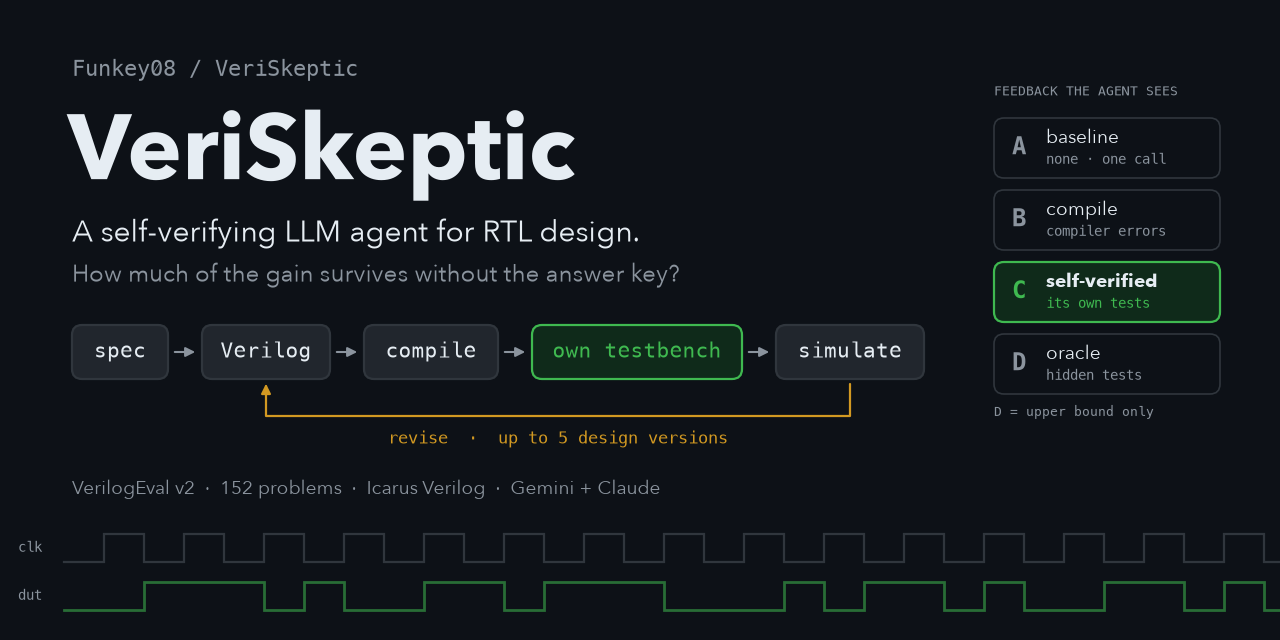
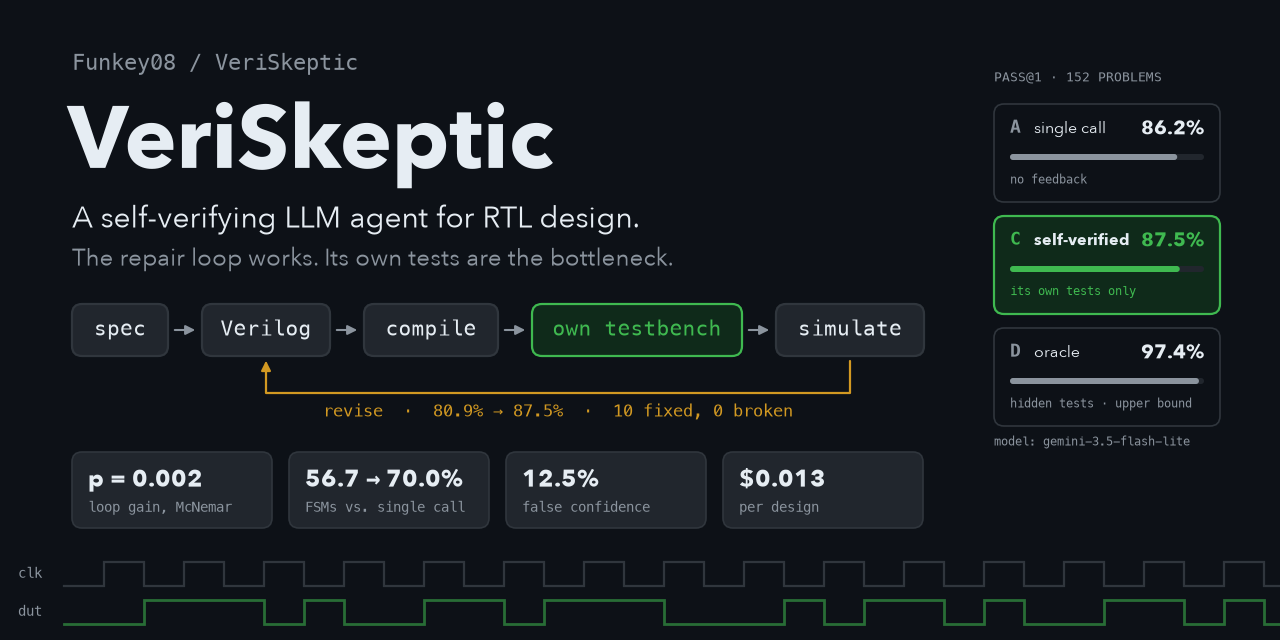
docs(assets): update social-preview card with benchmark results

diff --git a/assets/make_card.py b/assets/make_card.py
@@ -1,4 +1,4 @@
-"""Render a 1280x640 GitHub social-preview card for VeriSkeptic."""
+"""Render a 1280x640 GitHub social-preview card for VeriSkeptic, with the headline results."""
 import sys
 
 import matplotlib
@@ -30,11 +30,12 @@ fig.patch.set_facecolor(BG)
 
 
 def text(x, y, s, size, color=FG, font=SANS, weight="normal", **kw):
-    ax.text(x, y, s, fontsize=size * PX, color=color, family=font, weight=weight, va="center", **kw)
+    ax.text(x, y, s, fontsize=size * PX, color=color, family=[font, MONO],  # Menlo supplies missing glyphs (→)
+            weight=weight, va="center", **kw)
 
 
 # --- decorative waveform along the bottom -------------------------------------------------
-def wave(y, bits, color, amp=14, x0=0, step=40, lw=2.0, alpha=1.0):
+def wave(y, bits, color, amp=12, x0=0, step=40, lw=2.0, alpha=1.0):
     xs, ys = [], []
     for i, b in enumerate(bits):
         lvl = y - amp if b else y + amp
@@ -44,22 +45,22 @@ def wave(y, bits, color, amp=14, x0=0, step=40, lw=2.0, alpha=1.0):
 
 
 n = W // 40 + 1
-wave(548, [i % 2 for i in range(n)], LINE, lw=1.6, x0=64)
+wave(574, [i % 2 for i in range(n)], LINE, lw=1.6, x0=64)
 data = [0, 0, 1, 1, 1, 0, 1, 0, 0, 1, 1, 0, 1, 1, 1, 0, 0, 0, 1, 0, 1, 1, 0, 1, 0, 0, 1, 1, 0, 1, 0, 1, 1]
-wave(596, data[:n], ACCENT, lw=2.0, alpha=0.55, x0=64)
-text(18, 548, "clk", 14, MUTED, MONO)
-text(18, 596, "dut", 14, MUTED, MONO)
+wave(612, data[:n], ACCENT, lw=2.0, alpha=0.55, x0=64)
+text(18, 574, "clk", 14, MUTED, MONO)
+text(18, 612, "dut", 14, MUTED, MONO)
 
 # --- header ------------------------------------------------------------------------------
-text(72, 70, "Funkey08 / VeriSkeptic", 22, MUTED, MONO)
-text(68, 150, "VeriSkeptic", 92, FG, SANS, weight="bold")
-text(72, 232, "A self-verifying LLM agent for RTL design.", 30, FG)
-text(72, 274, "How much of the gain survives without the answer key?", 24, MUTED)
+text(72, 64, "Funkey08 / VeriSkeptic", 22, MUTED, MONO)
+text(68, 140, "VeriSkeptic", 88, FG, SANS, weight="bold")
+text(72, 218, "A self-verifying LLM agent for RTL design.", 30, FG)
+text(72, 258, "The repair loop works. Its own tests are the bottleneck.", 24, MUTED)
 
 # --- agent loop --------------------------------------------------------------------------
 steps = ["spec", "Verilog", "compile", "own testbench", "simulate"]
 widths = [96, 128, 134, 210, 148]
-gap, y, h = 34, 352, 54
+gap, y, h = 34, 330, 52
 x = 72
 boxes = []
 for s, w in zip(steps, widths):
@@ -80,26 +81,38 @@ vx = boxes[1][0] + boxes[1][1] / 2
 ax.add_patch(FancyArrowPatch((sx, y + h / 2 + 2), (vx, y + h / 2 + 2),
                              connectionstyle="bar,fraction=-0.06", arrowstyle="-|>",
                              mutation_scale=14, color=WARN, lw=1.6))
-text((sx + vx) / 2, y + h / 2 + 60, "revise  ·  up to 5 design versions", 17, WARN, MONO, ha="center")
+text((sx + vx) / 2, y + h / 2 + 56, "revise  ·  80.9% → 87.5%  ·  10 fixed, 0 broken", 17, WARN, MONO, ha="center")
 
-# --- experimental modes panel -----------------------------------------------------------
-px, pw, py0, rh = 994, 226, 118, 72
-text(px, py0 - 26, "FEEDBACK THE AGENT SEES", 13, MUTED, MONO)
-modes = [("A", "baseline", "none · one call", False),
-         ("B", "compile", "compiler errors", False),
-         ("C", "self-verified", "its own tests", True),
-         ("D", "oracle", "hidden tests", False)]
-for i, (k, name, fb, hl) in enumerate(modes):
+# --- key numbers -------------------------------------------------------------------------
+stats = [("p = 0.002", "loop gain, McNemar"), ("56.7 → 70.0%", "FSMs vs. single call"),
+         ("12.5%", "false confidence"), ("$0.013", "per design")]
+cw, cg, cy, ch = 200, 17, 452, 76
+for i, (big, small) in enumerate(stats):
+    cx = 72 + i * (cw + cg)
+    ax.add_patch(FancyBboxPatch((cx, cy), cw, ch, boxstyle="round,pad=0,rounding_size=10",
+                                fc=FAINT, ec=LINE, lw=1.2))
+    text(cx + 16, cy + 27, big, 24, FG, weight="bold")
+    text(cx + 16, cy + 56, small, 14, MUTED, MONO)
+
+# --- results panel: pass@1 per mode ------------------------------------------------------
+px, pw, py0, rh = 994, 226, 104, 112
+text(px, py0 - 26, "PASS@1 · 152 PROBLEMS", 13, MUTED, MONO)
+modes = [("A", "single call", 86.2, "no feedback", False),
+         ("C", "self-verified", 87.5, "its own tests only", True),
+         ("D", "oracle", 97.4, "hidden tests · upper bound", False)]
+for i, (k, name, val, note, hl) in enumerate(modes):
     ty = py0 + i * rh
-    ax.add_patch(FancyBboxPatch((px, ty), pw, rh - 12, boxstyle="round,pad=0,rounding_size=10",
+    ax.add_patch(FancyBboxPatch((px, ty), pw, rh - 14, boxstyle="round,pad=0,rounding_size=10",
                                 fc="#0f2a1a" if hl else BG, ec=ACCENT if hl else LINE, lw=1.6 if hl else 1.2))
-    text(px + 18, ty + 30, k, 24, ACCENT if hl else MUTED, MONO, weight="bold")
-    text(px + 52, ty + 19, name, 19, FG, weight="bold" if hl else "normal")
-    text(px + 52, ty + 42, fb, 14, ACCENT if hl else MUTED, MONO)
-text(px, py0 + 4 * rh + 6, "D = upper bound only", 13, MUTED, MONO)
-
-# --- footer ------------------------------------------------------------------------------
-text(72, 488, "VerilogEval v2  ·  152 problems  ·  Icarus Verilog  ·  Gemini + Claude", 19, MUTED)
+    text(px + 16, ty + 24, k, 18, ACCENT if hl else MUTED, MONO, weight="bold")
+    text(px + 40, ty + 24, name, 16, FG, weight="bold" if hl else "normal")
+    text(px + pw - 16, ty + 24, f"{val:.1f}%", 20, ACCENT if hl else FG, weight="bold", ha="right")
+    bx, bw, by = px + 16, pw - 32, ty + 50  # meter on a 0-100 scale
+    ax.add_patch(FancyBboxPatch((bx, by), bw, 6, boxstyle="round,pad=0,rounding_size=3", fc=FAINT, ec="none"))
+    ax.add_patch(FancyBboxPatch((bx, by), bw * val / 100, 6, boxstyle="round,pad=0,rounding_size=3",
+                                fc=ACCENT if hl else MUTED, ec="none"))
+    text(px + 16, ty + 76, note, 12, ACCENT if hl else MUTED, MONO)
+text(px, py0 + 3 * rh + 2, "model: gemini-3.5-flash-lite", 12, MUTED, MONO)
 
 out = sys.argv[1] if len(sys.argv) > 1 else "social-preview.png"
 fig.savefig(out, dpi=DPI, facecolor=BG)
